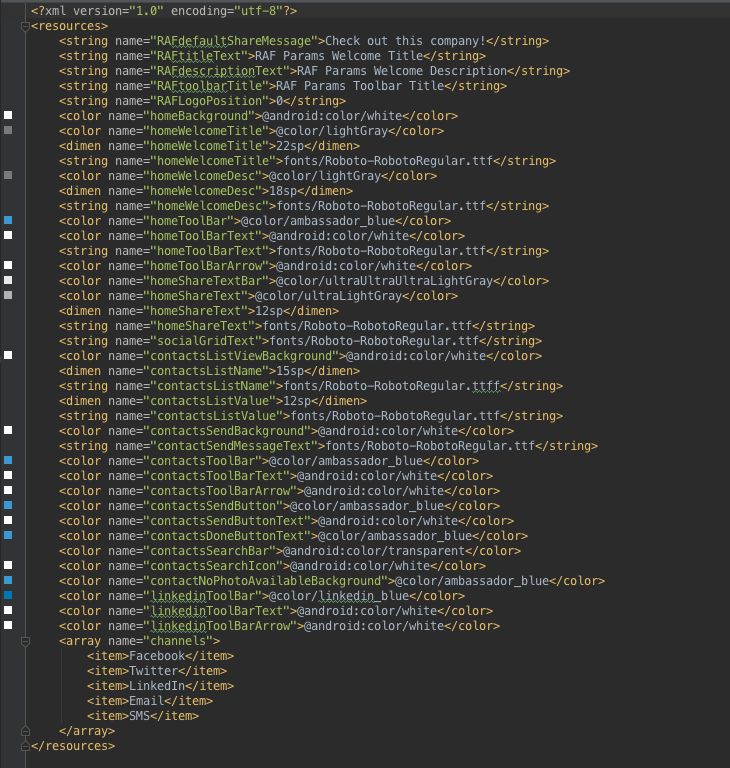
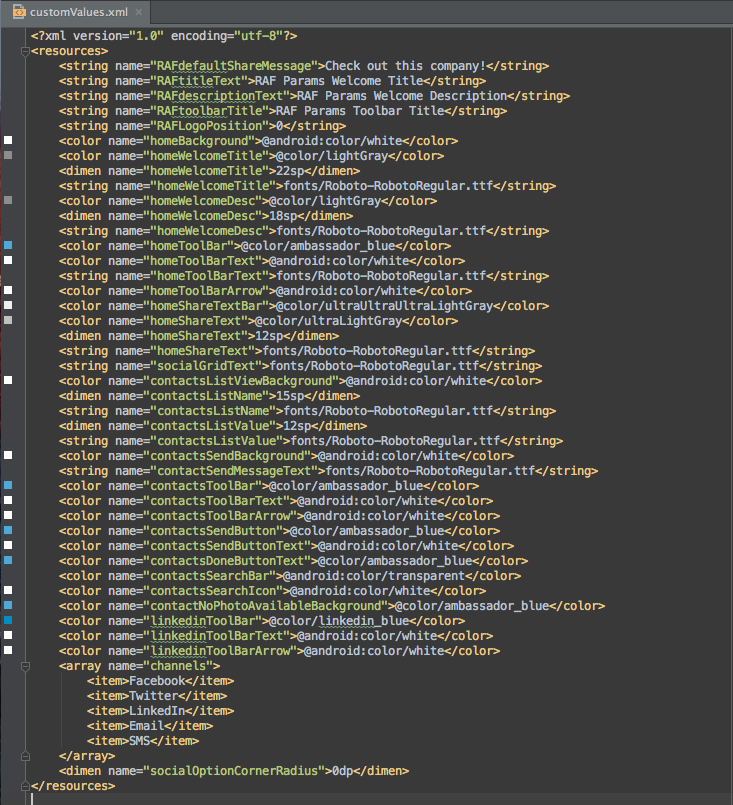
update ready

diff --git a/README.md b/README.md
@@ -286,3 +286,17 @@ Reordering the SMS item to the first position will move the icon to the front.
 <img src="screenshots/reorderIconValuesModified.png" />
 
 <img src="screenshots/modifiedIconOrder.png" width="250" />
+
+#### Corner Radius
+
+You can set the corner radius of social options.  Modify the _socialOptionCornerRadius_ dimension value in customValues.
+
+<img src="screenshots/cornerRadiusValueExample.png" width="400" />
+
+<img src="screenshots/cornerRadiusExample.png" width="250" />
+
+You can also display the options as circles by setting the value to -1dp.
+
+<img src="screenshots/cornerRadiusValueCircleExample.png" width="400" />
+
+<img src="screenshots/cornerRadiusCircleExample.png" width="250" />
